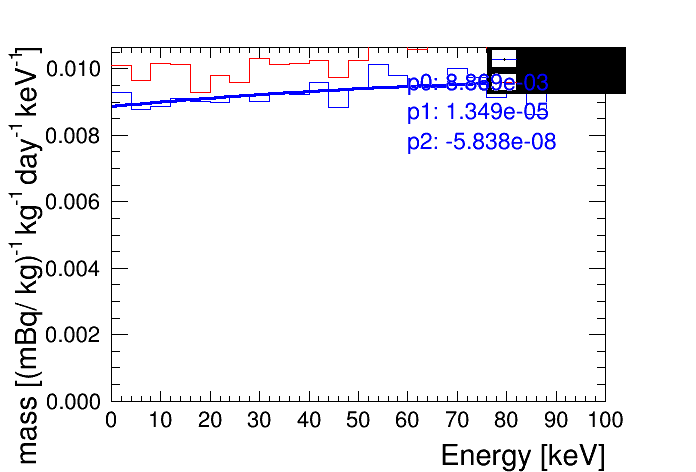
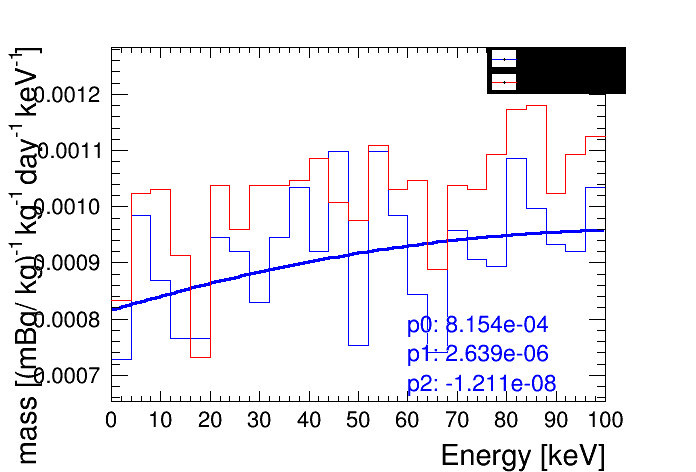
nfigure

diff --git a/WeiPlotEnergy/LUXSimForDiffBetaDecayInXenon.C b/WeiPlotEnergy/LUXSimForDiffBetaDecayInXenon.C
@@ -18,8 +18,8 @@
 #include "TString.h"
 #include "TTree.h"
 #include "TChain.h"
-#include "The_fdF.h"
-#include "The_skinF.h"
+#include "TH1F.h"
+#include "TH2F.h"
 #include "TH3F.h"
 #include "TMath.h"
 #include "TCanvas.h"
@@ -274,13 +274,30 @@ int LUXSimForDiffBetaDecayInXenon(TString txtFileList = "test.txt", TString fOut
 
   std::cout<<"success load trees. "<<std::endl;
 
-  The_fdF* he_center              = new The_fdF("he_center", ";Energy [keV];event rate per activity mass [(mBq/ kg)^{-1} kg^{-1} day^{-1} keV^{-1}]", 100, 0, 100);
-  The_fdF* he_fd               = new The_fdF("he_fd", ";Energy [keV];event rate per activity mass [(mBq/ kg)^{-1} kg^{-1} day^{-1} keV^{-1}]", 100, 0, 100);
-  The_fdF* he_skin               = new The_fdF("he_skin", ";Energy [keV];event rate per activity mass [(mBq/ kg)^{-1} kg^{-1} day^{-1} keV^{-1}]", 100, 0, 100);
+  TFile * outFile = new TFile(fOutName.Data(), "recreate");
+  outFile->cd();
 
 
+  TH1F* he_center              = new TH1F("he_center", ";Energy [keV];event rate per activity mass [(mBq/ kg)^{-1} kg^{-1} day^{-1} keV^{-1}]", 100, 0, 100);
+  TH1F* he_fd               = new TH1F("he_fd", ";Energy [keV];event rate per activity mass [(mBq/ kg)^{-1} kg^{-1} day^{-1} keV^{-1}]", 100, 0, 100);
+  TH1F* he_skin               = new TH1F("he_skin", ";Energy [keV];event rate per activity mass [(mBq/ kg)^{-1} kg^{-1} day^{-1} keV^{-1}]", 100, 0, 100);
 
-  double numOfSim= double (ttree->GetEntries());
+  TH1F* hsc_center              = new TH1F("hsc_center", ";Energy [keV];event rate per activity mass [(mBq/ kg)^{-1} kg^{-1} day^{-1} keV^{-1}]", 100, 0, 100);
+  TH1F* hsc_fd               = new TH1F("hsc_fd", ";Energy [keV];event rate per activity mass [(mBq/ kg)^{-1} kg^{-1} day^{-1} keV^{-1}]", 100, 0, 100);
+  TH1F* hsc_skin               = new TH1F("hsc_skin", ";Energy [keV];event rate per activity mass [(mBq/ kg)^{-1} kg^{-1} day^{-1} keV^{-1}]", 100, 0, 100);
+
+  TH1F* hgxsc_center              = new TH1F("hgxsc_center", ";Energy [keV];event rate per activity mass [(mBq/ kg)^{-1} kg^{-1} day^{-1} keV^{-1}]", 100, 0, 100);
+  TH1F* hgxsc_fd               = new TH1F("hgxsc_fd", ";Energy [keV];event rate per activity mass [(mBq/ kg)^{-1} kg^{-1} day^{-1} keV^{-1}]", 100, 0, 100);
+  TH1F* hgxsc_skin               = new TH1F("hgxsc_skin", ";Energy [keV];event rate per activity mass [(mBq/ kg)^{-1} kg^{-1} day^{-1} keV^{-1}]", 100, 0, 100);
+
+  TH2F* he_center_xy               = new TH2F("he_center_xy ", "; x [cm]; y [cm]", 100, -30, 30, 100, -30, 30);
+  TH2F* hsc_center_xy               = new TH2F("hsc_center_xy ", "; x [cm]; y [cm]", 100, -30, 30, 100, 30, 30);
+  TH2F* hgxsc_center_xy               = new TH2F("hgxsc_center_xy ", "; x [cm]; y [cm]", 100, -30, 30, 100, -30, 30);
+
+
+//  double numOfSim= double (ttree->GetEntries());
+  double numOfSim= 500000;
+
   for (int ii=0; ii<numOfSim; ii++){
     ttree->GetEntry(ii);
     // find single scatter above cathode. and double scatter with one energy deposit site above cathode
@@ -297,7 +314,7 @@ int LUXSimForDiffBetaDecayInXenon(TString txtFileList = "test.txt", TString fOut
     double ZMaxBelowCat = -999999999.;
     double EBelowCat=0;
     double delZBelowCat=0;
-    bool gX=0; //gamma X, there is energy deposition outside active region.
+    bool gX=0, gX1=0, gX2=0; //gamma X, there is energy deposition outside active region. gX1: there is event above cathode below gate, gX2: there is event below cathode
     bool sC=0; //single scatter, the delta Z of energy deposition is smaller than 0.6 cm;
     double XAboveCat=0;//average x, y above cathode by energy to get s2 location
     double XBelowCat=0;
@@ -317,6 +334,7 @@ int LUXSimForDiffBetaDecayInXenon(TString txtFileList = "test.txt", TString fOut
 	if (e.fPositionZ_cm[j] > ZMax) {ZMax=e.fPositionZ_cm[j];}
 	if (e.fPositionZ_cm[j] > 5.6 && e.fPositionZ_cm[j] < 53.92 ){
 	  EAboveCat += e.fEnergyDep_keV[j]; ETotal += e.fEnergyDep_keV[j];
+          gX1=1;
 	  if (e.fPositionZ_cm[j] < ZMinAboveCat) {ZMinAboveCat=e.fPositionZ_cm[j];}
 	  if (e.fPositionZ_cm[j] > ZMaxAboveCat) {ZMaxAboveCat=e.fPositionZ_cm[j];}
           XAboveCat+= e.fEnergyDep_keV[j]* e.fPositionX_cm[j]; //
@@ -325,8 +343,9 @@ int LUXSimForDiffBetaDecayInXenon(TString txtFileList = "test.txt", TString fOut
           Z2AboveCat+= e.fEnergyDep_keV[j]* pow(e.fPositionZ_cm[j] , 2); //
 	}
 	else if (e.fPositionZ_cm[j] > 0 && e.fPositionZ_cm[j] <= 5.6 ){
+//    cout<<endl<<endl<<"set gX flag 1 here."<<endl<<endl<<endl;
 	  EBelowCat += e.fEnergyDep_keV[j]; ETotal += e.fEnergyDep_keV[j]; 
-          gX=1;
+          gX2=1;
 	  if (e.fPositionZ_cm[j] < ZMinBelowCat) {ZMinBelowCat=e.fPositionZ_cm[j];}
 	  if (e.fPositionZ_cm[j] > ZMaxBelowCat) {ZMaxBelowCat=e.fPositionZ_cm[j];}
           XBelowCat+= e.fEnergyDep_keV[j]* e.fPositionX_cm[j]; //
@@ -350,19 +369,36 @@ int LUXSimForDiffBetaDecayInXenon(TString txtFileList = "test.txt", TString fOut
     double rAboveCat = pow( pow(XAboveCat ,2)+  pow(YAboveCat ,2)  ,0.5) ;
     double s2width  = pow( Z2AboveCat - pow(ZAboveCat ,2)  ,0.5) ;
     sC = (s2width<0.6) || (delZAboveCat<0.6); //0.6 cm to be able to separate s1 s2
+    gX = gX1 && gX2;
 /*
+    cout<<endl<<endl<<endl<<endl<<endl;
     cout<<rAboveCat<<endl;
+    cout<<XAboveCat<<endl;
+    cout<<YAboveCat<<endl;
+    cout<<ZAboveCat<<endl;
     cout<< s2width<<endl;
     cout<<ZMinAboveCat<<endl;
     cout<<ZMaxAboveCat<<endl;
+    cout<<ZMinBelowCat<<endl;
+    cout<<ZMaxBelowCat<<endl;
     cout<<ETotal<<endl;
     cout<<e.fTotEDep<<endl;
     cout<<EAboveCat<<endl;
+    cout<<gX<<"  "<<sC<<endl;
     cout<<endl<<endl<<endl<<endl<<endl;
-*/
-    if ( inVolume(rAboveCat, ZAboveCat, r0min, z0min, r0max, z0max) && (!gX) && (sC) ) {he_center->Fill(EAboveCat);}
-    if ( inVolume(rAboveCat, ZAboveCat, r1min, z1min, r1max, z1max) && (!gX) && (sC) ) {he_fd->Fill(EAboveCat);}
-    if ( inVolume(rAboveCat, ZAboveCat, r2min, z2min, r2max, z2max) && (!gX) && (sC) ) {he_skin->Fill(EAboveCat);}
+    cout<<inVolume(rAboveCat, ZAboveCat, r0min, z0min, r0max, z0max)<<endl;*/
+
+    if ( inVolume(rAboveCat, ZAboveCat, r0min, z0min, r0max, z0max) && (!gX) && (!gX2) && (sC) ) {he_center->Fill(EAboveCat); he_center_xy->Fill(XAboveCat, YAboveCat);}
+    if ( inVolume(rAboveCat, ZAboveCat, r1min, z1min, r1max, z1max) && (!gX) && (!gX2) && (sC) ) {he_fd->Fill(EAboveCat);}
+    if ( inVolume(rAboveCat, ZAboveCat, r2min, z2min, r2max, z2max) && (!gX) && (!gX2) && (sC) ) {he_skin->Fill(EAboveCat);}
+
+    if ( inVolume(rAboveCat, ZAboveCat, r0min, z0min, r0max, z0max) && (sC) ) {hsc_center->Fill(EAboveCat);hsc_center_xy->Fill(XAboveCat, YAboveCat);}
+    if ( inVolume(rAboveCat, ZAboveCat, r1min, z1min, r1max, z1max) && (sC) ) {hsc_fd->Fill(EAboveCat);}
+    if ( inVolume(rAboveCat, ZAboveCat, r2min, z2min, r2max, z2max) && (sC) ) {hsc_skin->Fill(EAboveCat);}
+
+    if ( inVolume(rAboveCat, ZAboveCat, r0min, z0min, r0max, z0max) && (!gX2) && (sC) ) {hgxsc_center->Fill(EAboveCat);hgxsc_center_xy->Fill(XAboveCat, YAboveCat);}
+    if ( inVolume(rAboveCat, ZAboveCat, r1min, z1min, r1max, z1max) && (!gX2) && (sC) ) {hgxsc_fd->Fill(EAboveCat);}
+    if ( inVolume(rAboveCat, ZAboveCat, r2min, z2min, r2max, z2max) && (!gX2) && (sC) ) {hgxsc_skin->Fill(EAboveCat);}
 
   }
 
@@ -386,18 +422,33 @@ int LUXSimForDiffBetaDecayInXenon(TString txtFileList = "test.txt", TString fOut
 
   fraction = 1./(ttree->GetEntries(fr1&&fz1)/fmass1)*(numOfSim/massTot);
 
-  he_center->SetTitle(";Energy [keV];event rate per activity mass [(mBq/ kg)^{-1} kg^{-1} day^{-1} keV^{-1}]");
+//  he_center->SetTitle(";Energy [keV];event rate per activity mass [(mBq/ kg)^{-1} kg^{-1} day^{-1} keV^{-1}]");
   he_center->Scale(massTot/mass0/numOfSim*fraction*daymBq);
-  he_center->SetName("center");
+//  he_center->SetName("he_center");
   he_center->SetLineColor(kBlue);
-  he_fd->SetTitle(";Energy [keV];event rate per activity mass [(mBq/ kg)^{-1} kg^{-1} day^{-1} keV^{-1}]");
+//  he_fd->SetTitle(";Energy [keV];event rate per activity mass [(mBq/ kg)^{-1} kg^{-1} day^{-1} keV^{-1}]");
   he_fd->Scale(massTot/mass1/numOfSim*fraction*daymBq);
-  he_fd->SetName("activeVolume");
+//  he_fd->SetName("he_fd);
   he_fd->SetLineColor(kRed);
-  he_skin->SetTitle(";Energy [keV];event rate per activity mass [(mBq/ kg)^{-1} kg^{-1} day^{-1} keV^{-1}]");
+//  he_skin->SetTitle(";Energy [keV];event rate per activity mass [(mBq/ kg)^{-1} kg^{-1} day^{-1} keV^{-1}]");
   he_skin->Scale(massTot/mass2/numOfSim*fraction*daymBq);
-  he_skin->SetName("skin");
+//  he_skin->SetName("he_skin");
   he_skin->SetLineColor(kBlack);
+
+  hsc_center->Scale(massTot/mass0/numOfSim*fraction*daymBq);
+  hsc_center->SetLineColor(kBlue);
+  hsc_fd->Scale(massTot/mass1/numOfSim*fraction*daymBq);
+  hsc_fd->SetLineColor(kRed);
+  hsc_skin->Scale(massTot/mass2/numOfSim*fraction*daymBq);
+  hsc_skin->SetLineColor(kBlack);
+
+  hgxsc_center->Scale(massTot/mass0/numOfSim*fraction*daymBq);
+  hgxsc_center->SetLineColor(kBlue);
+  hgxsc_fd->Scale(massTot/mass1/numOfSim*fraction*daymBq);
+  hgxsc_fd->SetLineColor(kRed);
+  hgxsc_skin->Scale(massTot/mass2/numOfSim*fraction*daymBq);
+  hgxsc_skin->SetLineColor(kBlack);
+
 
   he_center->Rebin(4);
   he_center->Scale(1./4);
@@ -433,6 +484,7 @@ int LUXSimForDiffBetaDecayInXenon(TString txtFileList = "test.txt", TString fOut
   TString label= TString::Format("skin * %d",int(skinScale));
   if (drawSkin) {tl->AddEntry(he_skin, label.Data());}
   he_center->Draw();
+  he_center->GetYaxis()->SetRangeUser(-0.2*(he_center->GetMaximum() - he_center->GetMinimum() )+ he_center->GetMinimum(), 1.5*(he_center->GetMaximum() - he_center->GetMinimum() )+ he_center->GetMinimum());
   he_fd->Draw("same");
   if (drawSkin) {
     he_skin->Scale(1./skinScale); //further scale down to plot on the same graph.
@@ -457,6 +509,11 @@ int LUXSimForDiffBetaDecayInXenon(TString txtFileList = "test.txt", TString fOut
   img->WriteImage(figname.Data());
   std::cout << figname.Data()<<std::endl;
 
+
+  outFile->Write();
+//  he_center->Write();
+//  he_fd->Write();
+//  he_skin->Write();
 
   return 1;
 }
